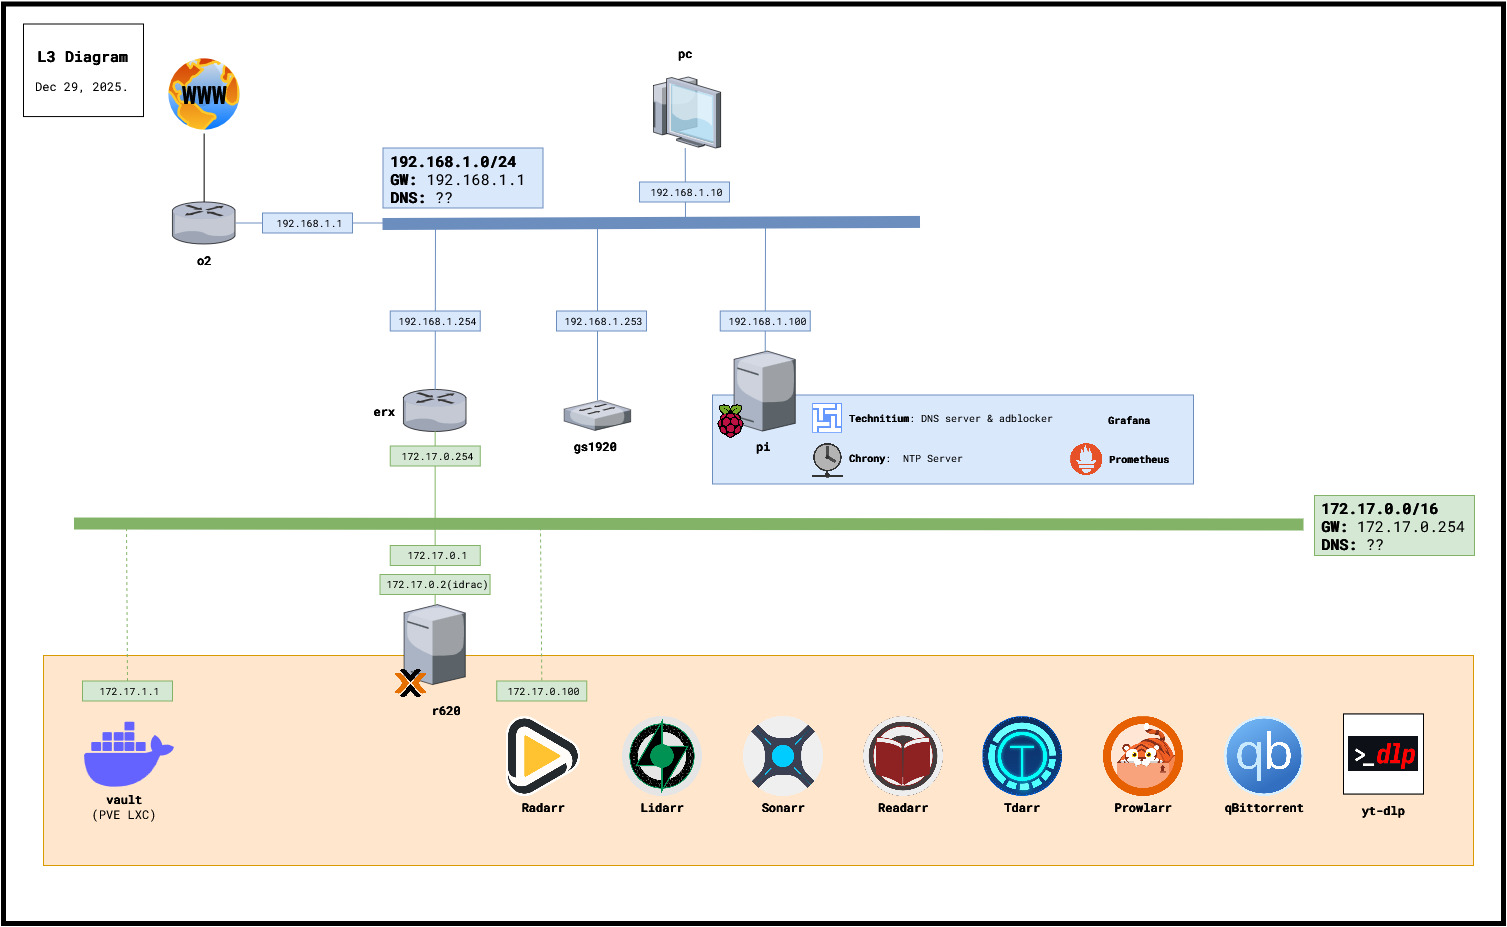
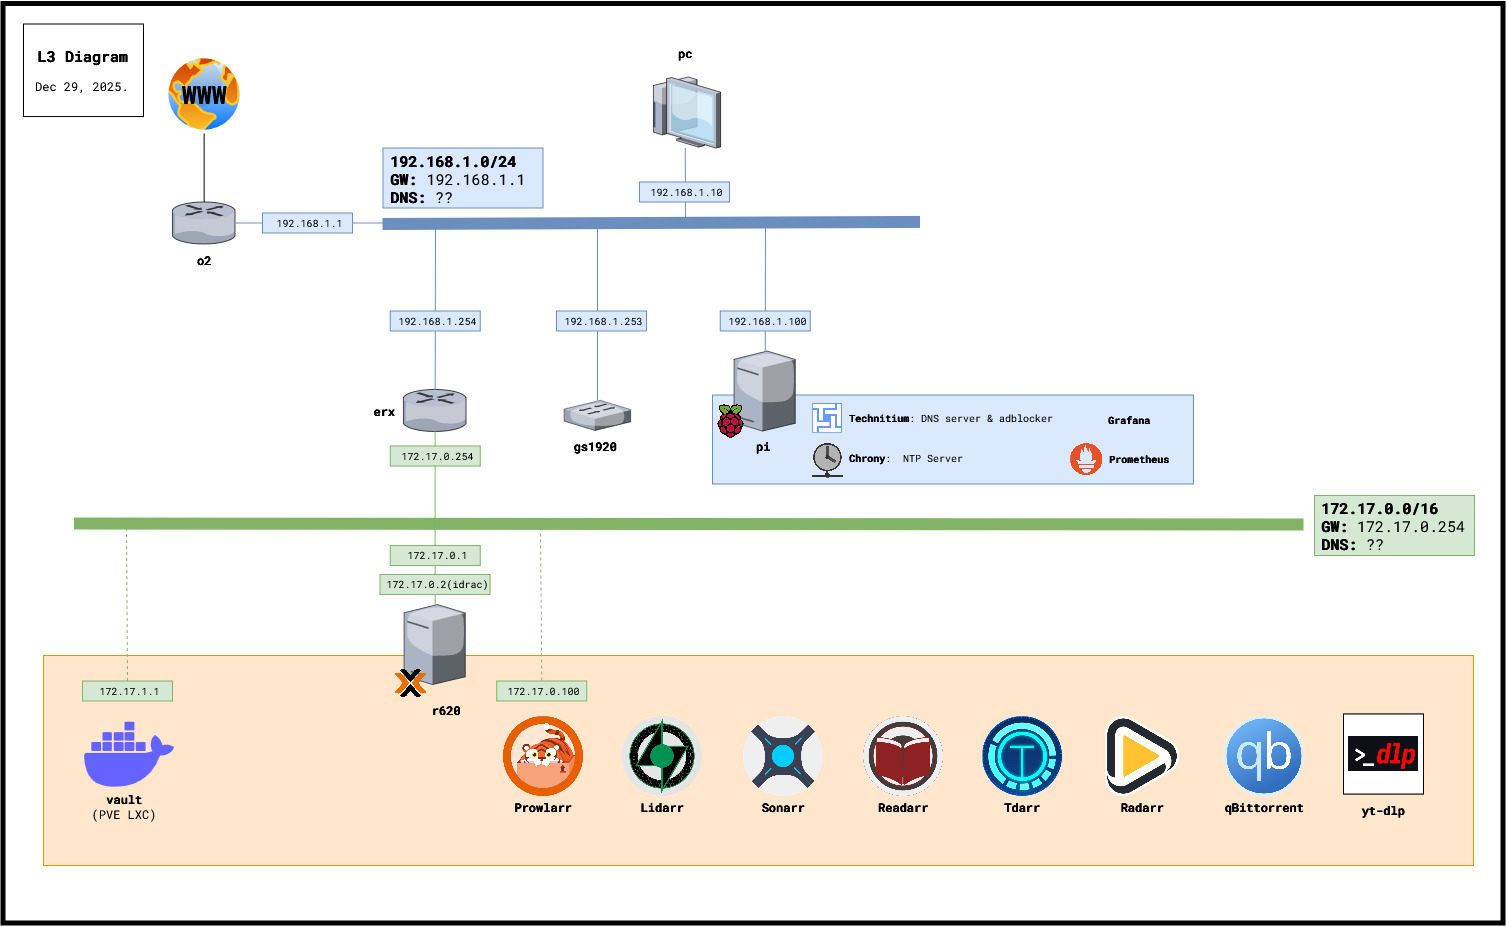
prowlarr

diff --git a/README.md b/README.md
@@ -80,24 +80,28 @@ Checkout [VAULT.md](VAULT.md) for a full explanation of how I am handling storag
 +==============+=========================+=========+================+
 | vault        | PVE Debian 13 LXC       | eth0    | 172.17.1.1     |
 +--------------+-------------------------+---------+----------------+
+| prowlarr     | PVE Debian 13 VM        | eth0    | 172.17.0.100   |
++--------------+-------------------------+---------+----------------+
 ```
 
 
 ### Service Matrix
 
 ```
-+==================================+==============+==================================================+
-|               Service            |     Host     |                     Endpoint                     |
-+==================================+==============+==================================================+
-| DNS Server (Technitium)          | pi           | 192.168.1.100 TCP+UDP/53 & TCP 5380 (Web portal) |
-+----------------------------------+--------------+--------------------------------------------------+
-| NTP Server (Chrony)              | pi           | 192.168.1.100 UDP/123                            |
-+----------------------------------+--------------+--------------------------------------------------+
-| DHCP Server for 192.168.1.0/24   | o2 router    | 192.168.1.1 UDP/67                               |
-+----------------------------------+--------------+--------------------------------------------------+
-| VAULT (NFS/SAMBA on a PVE LXC)   | LXC "vault"  | 172.17.1.1 TCP/2049 (NFS)                        |
-|                                  |              | 172.17.1.1 TCP/445  (SAMBA)                      |
-+----------------------------------+--------------+--------------------------------------------------+
++==================================+===============+==================================================+
+|               Service            |     Host      |                     Endpoint                     |
++==================================+===============+==================================================+
+| DNS Server (Technitium)          | pi            | 192.168.1.100 TCP+UDP/53 & TCP 5380 (Web portal) |
++----------------------------------+---------------+--------------------------------------------------+
+| NTP Server (Chrony)              | pi            | 192.168.1.100 UDP/123                            |
++----------------------------------+---------------+--------------------------------------------------+
+| DHCP Server for 192.168.1.0/24   | o2 router     | 192.168.1.1 UDP/67                               |
++----------------------------------+---------------+--------------------------------------------------+
+| VAULT (NFS/SAMBA on a PVE LXC)   | LXC "vault"   | 172.17.1.1 TCP/2049 (NFS)                        |
+|                                  |               | 172.17.1.1 TCP/445  (SAMBA)                      |
++----------------------------------+---------------+--------------------------------------------------+
+| prowlarr                         | VM "prowlarr" | 172.17.0.100 TCP/9696 (Web portal)               |
++----------------------------------+---------------+--------------------------------------------------+
 ```
 
 
